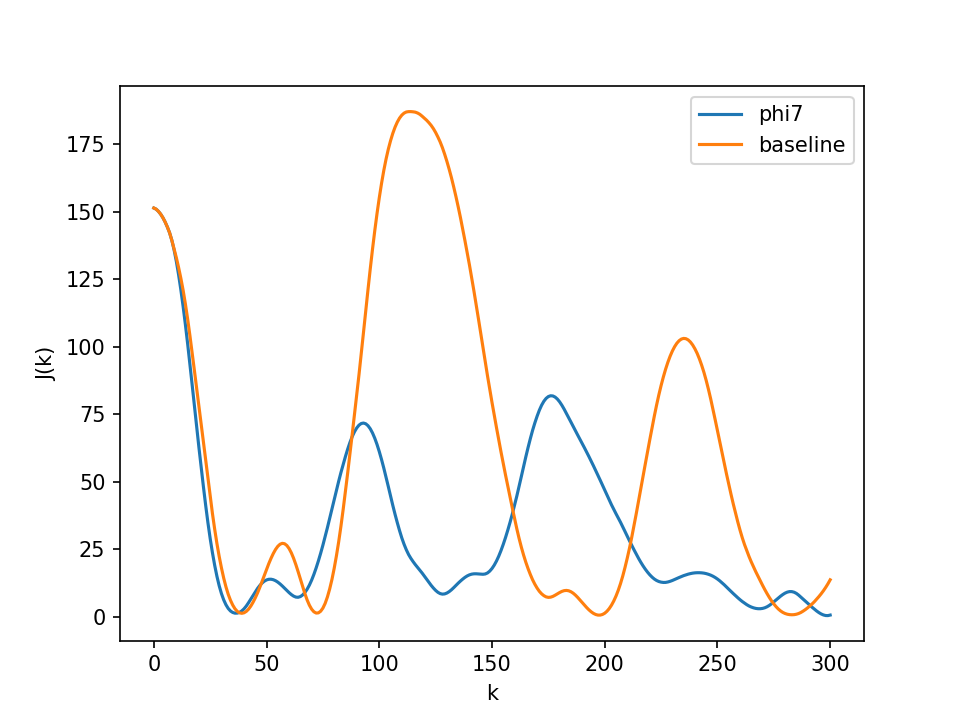
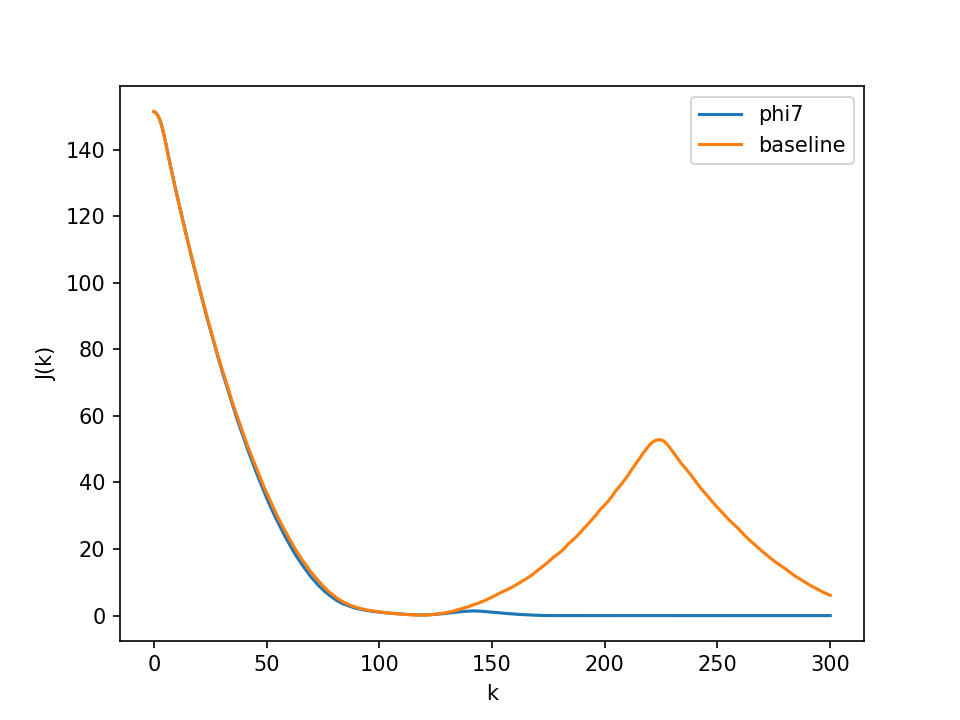
Fix E2 gate 3: parameterize v_cruise, replace peak/edge criteria, unconditional conflict run
리뷰 반영(수정 라운드 1). v_cruise를 Scenario 필드로 분리(기본값 4.0 — 기존 24개 테스트·E1
결과 불변)하고 E2에 v_cruise=1.0 지정: 그리디 1-step LP의 무감속 오버슈트로 인한 로봇간 충돌이
해소되어 기본값(σ=3/w7=3)에서 게이트 3이 4/4 전부 통과한다(J_final 0.00019, ΣJ(k≥1) 5022<9035,
엣지오차 <0.02m, collision_free). 게이트 판정식도 개정: 엣지 임계 0.1σ 결합→0.3m 고정(튜닝이
기준을 완화시키는 결함 제거), 피크 비교→ΣJ(k≥1) 비교(J(0) 공통 상한으로 퇴화하던 문제 해결).
_run_arm의 w_robot 하드코딩을 sc.w_robot 복사로 교체. conflict_run을 게이트 결과와 무관하게
무조건 실행하도록 배선(E4 관찰 런). 이전 라운드의 σ·w7 튜닝 이력(e2_tuning_log.json)은 정직한
기록으로 보존.

Claude-Session: https://claude.ai/code/session_01PwXjM1ALydcLxvzBburfps

diff --git a/sim/run_e2.py b/sim/run_e2.py
@@ -1,5 +1,7 @@
 """E2 게이트 3: 편대 유지 (φ⁷) vs 베이스라인 (같은 리프팅, w7=0). 실행: python3 -m sim.run_e2
-게이트 3 미달 시 σ·w7 파라미터 반복(스펙: 최대 5회, e2_tuning_log.json 기록, 이 두 값만 허용)."""
+게이트 3 미달 시 σ·w7 파라미터 반복(스펙: 최대 5회, e2_tuning_log.json 기록, 이 두 값만 허용).
+v_cruise=1.0(E2, scenario.py)이 기본값에서 게이트를 충족시켜 통상 튜닝은 불필요 — σ 오버라이드는
+phi7 팔의 편대유지 폭에만 쓰이며, 베이스라인·게이트 임계(0.3m 고정)에는 영향 없음."""
 import dataclasses, json
 import numpy as np
 import matplotlib
@@ -8,6 +10,8 @@ import matplotlib.pyplot as plt
 from .scenario import e2_scenario, E2_INIT, E2_TARGETS
 from .experiment import run_phase2
 from .run_e1 import _plot_traj, RESULTS
+
+EDGE_ERR_TOL = 0.3   # 고정 임계(스펙 개정) — 0.1*sigma 결합은 튜닝이 기준 자체를 완화시키는 결함이었음
 
 def formation_error(X_log, formation, n):
     J = []
@@ -18,33 +22,37 @@ def formation_error(X_log, formation, n):
 
 def _run_arm(use_phi7, sigma, w7):
     sc = e2_scenario(use_phi7_weight=use_phi7)
-    sc = dataclasses.replace(sc, sigma=sigma,
-                              w_robot=np.array([-1.0, -1.0, 5.0, 2.0, -2.0, -2.0, w7 if use_phi7 else 0.0]))
+    w_robot = sc.w_robot.copy()
+    if use_phi7:
+        w_robot[-1] = w7
+    sc = dataclasses.replace(sc, sigma=sigma, w_robot=w_robot)
     r = run_phase2(sc, None, "bilinear", E2_INIT, E2_TARGETS, sc.control_iters, controller="analytic")
     J = formation_error(r.X_log, sc.formation, sc.n_robots)
     pos_f = r.X_log[-1][:2 * sc.n_robots].reshape(sc.n_robots, 2)
     edge_final = {f"{a}-{b}": abs(float(np.linalg.norm(pos_f[a] - pos_f[b])) - d)
                   for (a, b), d in sc.formation.items()}
-    stats = {"J0": float(J[0]), "J_final": float(J[-1]), "J_peak": float(J.max()),
-             "edge_final_abs_err": edge_final, "controller": "analytic",
+    stats = {"J0": float(J[0]), "J_final": float(J[-1]), "J_sum_k1": float(J[1:].sum()),
+             "J_peak": float(J.max()), "edge_final_abs_err": edge_final, "controller": "analytic",
              "collision_free": bool(r.min_robot_surf > 0 and r.min_wall_surf > 0)}
     return sc, r, J, stats
 
 def run_gate3(sigma=3.0, w7=3.0):
-    """두 팔 실행 + 게이트 3 판정. sigma·w7는 phi7 팔만 오버라이드(베이스라인 w7=0 고정, 차원 통제)."""
+    """두 팔 실행 + 게이트 3 판정. sigma·w7는 phi7 팔만 오버라이드(베이스라인 w7=0 고정, 차원 통제).
+    판정(스펙 개정): ① J_final<0.1*J0 ② 엣지 절대오차 전부 < 0.3m(고정) ③ ΣJ(k>=1) phi7 < baseline
+    (피크 비교는 J(0) 퇴화라 기록 전용으로 강등) ④ collision_free."""
     sc7, r7, J7, p = _run_arm(True, sigma, w7)
     scb, rb, Jb, b = _run_arm(False, sigma, w7)
     gate = {"J_final_lt_10pct_J0": p["J_final"] < 0.1 * p["J0"],
-            "edges_within_0p1_sigma": all(v < 0.1 * sigma for v in p["edge_final_abs_err"].values()),
-            "peak_lt_baseline": p["J_peak"] < b["J_peak"],
+            "edges_within_0p3m": all(v < EDGE_ERR_TOL for v in p["edge_final_abs_err"].values()),
+            "sumJ_phi7_lt_baseline": p["J_sum_k1"] < b["J_sum_k1"],
             "collision_free": p["collision_free"]}
     gate["pass"] = all(gate.values())
     out = {"phi7": p, "baseline": b, "gate3": gate, "params": {"sigma": sigma, "w7": w7}}
     return out, {"phi7": (sc7, r7, J7), "baseline": (scb, rb, Jb)}
 
 def _score(gate):
-    return sum(gate[k] for k in ("J_final_lt_10pct_J0", "edges_within_0p1_sigma",
-                                  "peak_lt_baseline", "collision_free"))
+    return sum(gate[k] for k in ("J_final_lt_10pct_J0", "edges_within_0p3m",
+                                  "sumJ_phi7_lt_baseline", "collision_free"))
 
 def main():
     out, runs = run_gate3()                          # 1차: 기본값(sigma=3.0, w7=3.0)
@@ -69,12 +77,11 @@ def main():
     ax.set_xlabel("k"); ax.set_ylabel("J(k)"); ax.legend()
     fig.savefig(RESULTS / "e2_formation_error.png", dpi=150)
     print(json.dumps(out["gate3"], indent=2))
-    if out["gate3"]["pass"]:
-        conflict_run()
+    conflict_run()
     return out
 
 def conflict_run(d_star=4.6):
-    """φ⁶/φ⁷ 상충 관찰(게이트 통과 시에만): d*를 2Rr+0.6 근처로 낮춰 phi7 팔 1회 실행, 판정 없음."""
+    """φ⁶/φ⁷ 상충 관찰(E4, 무조건 실행 — 게이트 결과와 무관): d*를 2Rr+0.6 근처로 낮춰 phi7 팔 1회 실행, 판정 없음."""
     sigma, w7 = 3.0, 3.0
     sc = e2_scenario(use_phi7_weight=True)
     sc = dataclasses.replace(sc, sigma=sigma, formation={k: d_star for k in sc.formation})

diff --git a/sim/scenario.py b/sim/scenario.py
@@ -48,6 +48,8 @@ class Scenario:
     formation: dict = field(default_factory=dict)   # {(i,j): d_star}, i<j
     sigma: float = 3.0
     reduced_lifting: bool = False   # Task 8b 폴백: bilinear ζ에서 g1·g3 제거(a=433, 결정계)
+    v_cruise: float = 4.0   # phi2 순항속도 지시(원논문 값). E2는 1.0 — 이웃거리 무관 4m/s 지시와
+                             # phi6 반응거리 0.3m/제동거리 1.0m+ 구조적 불일치를 회피(문서화된 이탈)
 
     @property
     def n_phi(self): return len(self.phi_terms)
@@ -119,6 +121,7 @@ def e2_scenario(use_phi7_weight: bool) -> Scenario:
         targets=np.array(E2_TARGETS),
         formation=dict(E2_FORMATION), sigma=3.0,
         control_iters=300,                       # 스펙: 원논문 이탈(논문에 명시)
+        v_cruise=1.0,                             # 스펙: 원논문 이탈(논문에 명시, control_iters와 동일 문서화)
         w_robot=np.array([-1.0, -1.0, 5.0, 2.0, -2.0, -2.0, w7]))
 
 def e3_scenario(n_robots: int) -> Scenario:

diff --git a/sim/utility.py b/sim/utility.py
@@ -11,7 +11,7 @@ def phi_robot(X, i, sc):
     nr, nv = float(np.linalg.norm(r_star)), float(np.linalg.norm(v))
     vals = {}
     vals[1] = 0.0 if (nv < sc.eps_guard or nr < sc.eps_guard) else float(r_star @ v) / (nr * nv)
-    v_des = 4.0 / (1.0 + np.exp(-10.0 * (nr - 0.2)))
+    v_des = sc.v_cruise / (1.0 + np.exp(-10.0 * (nr - 0.2)))
     vals[2] = 1.0 - np.exp(-(((nv - v_des) / (0.8 * v_des)) ** 2))
     vals[3] = np.exp(-((nr / 4.0) ** 2)) * np.exp(-((nr / 6.0) ** 2))
     vals[4] = np.exp(-((nr / 0.05) ** 2)) * np.exp(-((nv / 0.05) ** 2))
